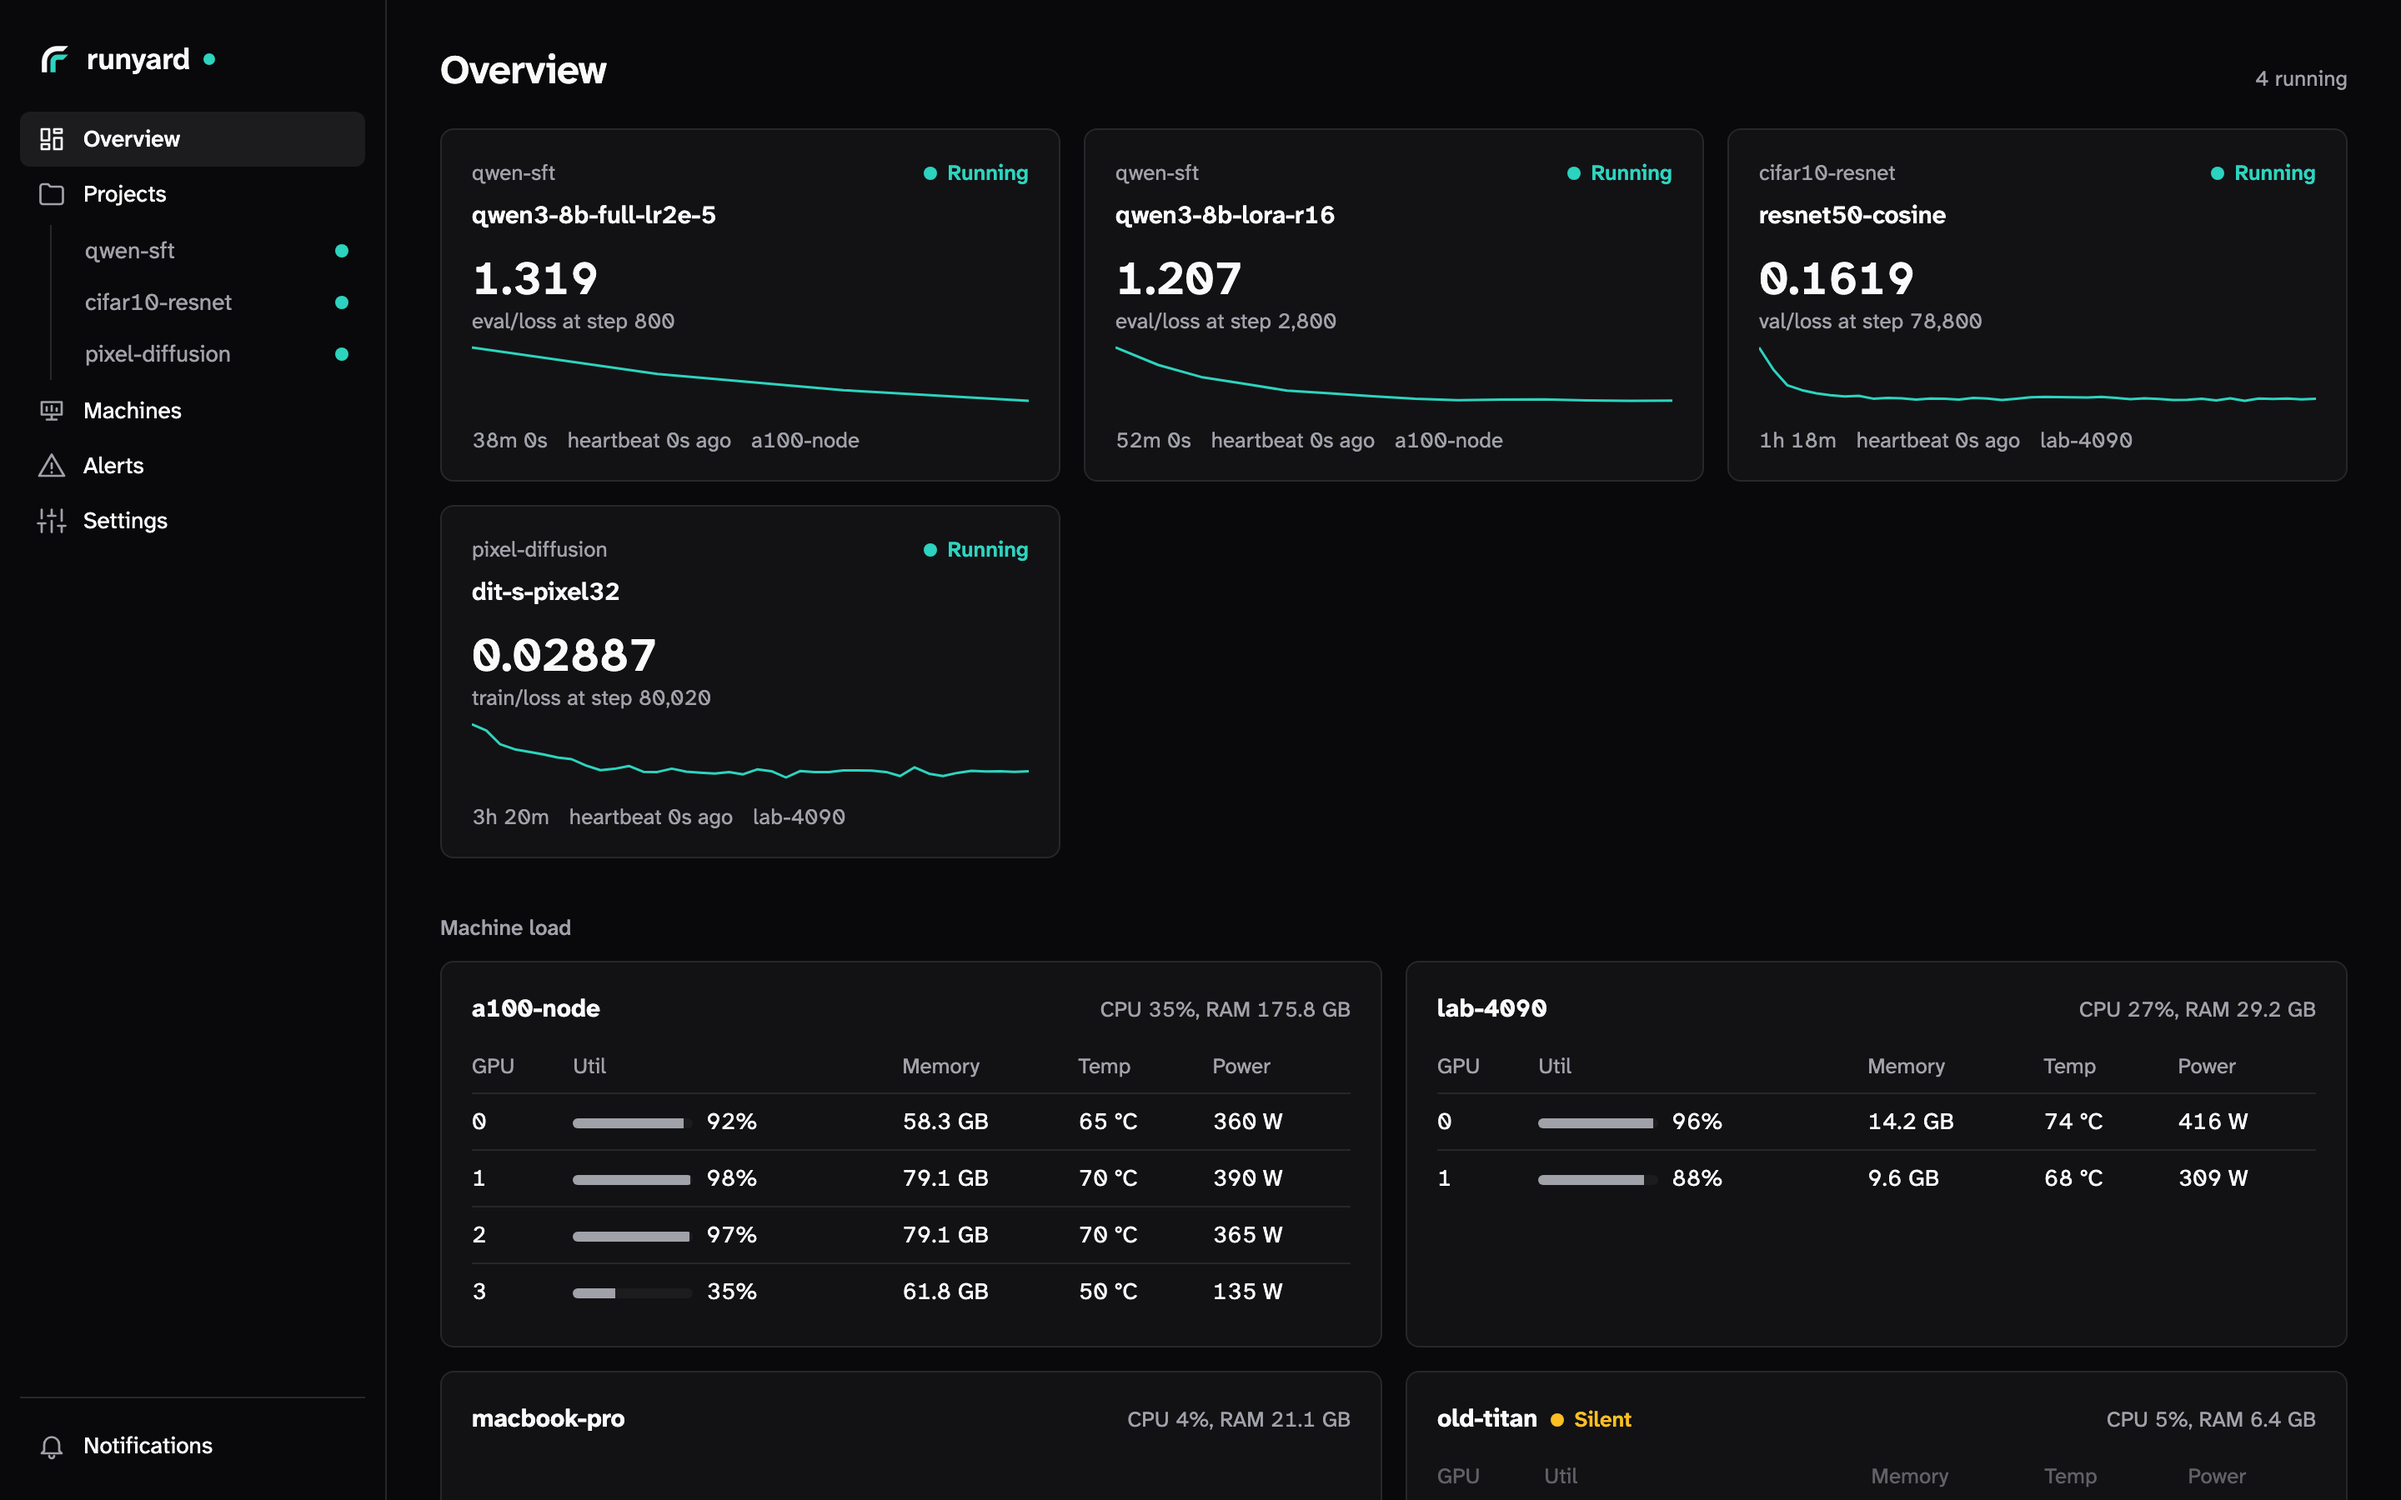
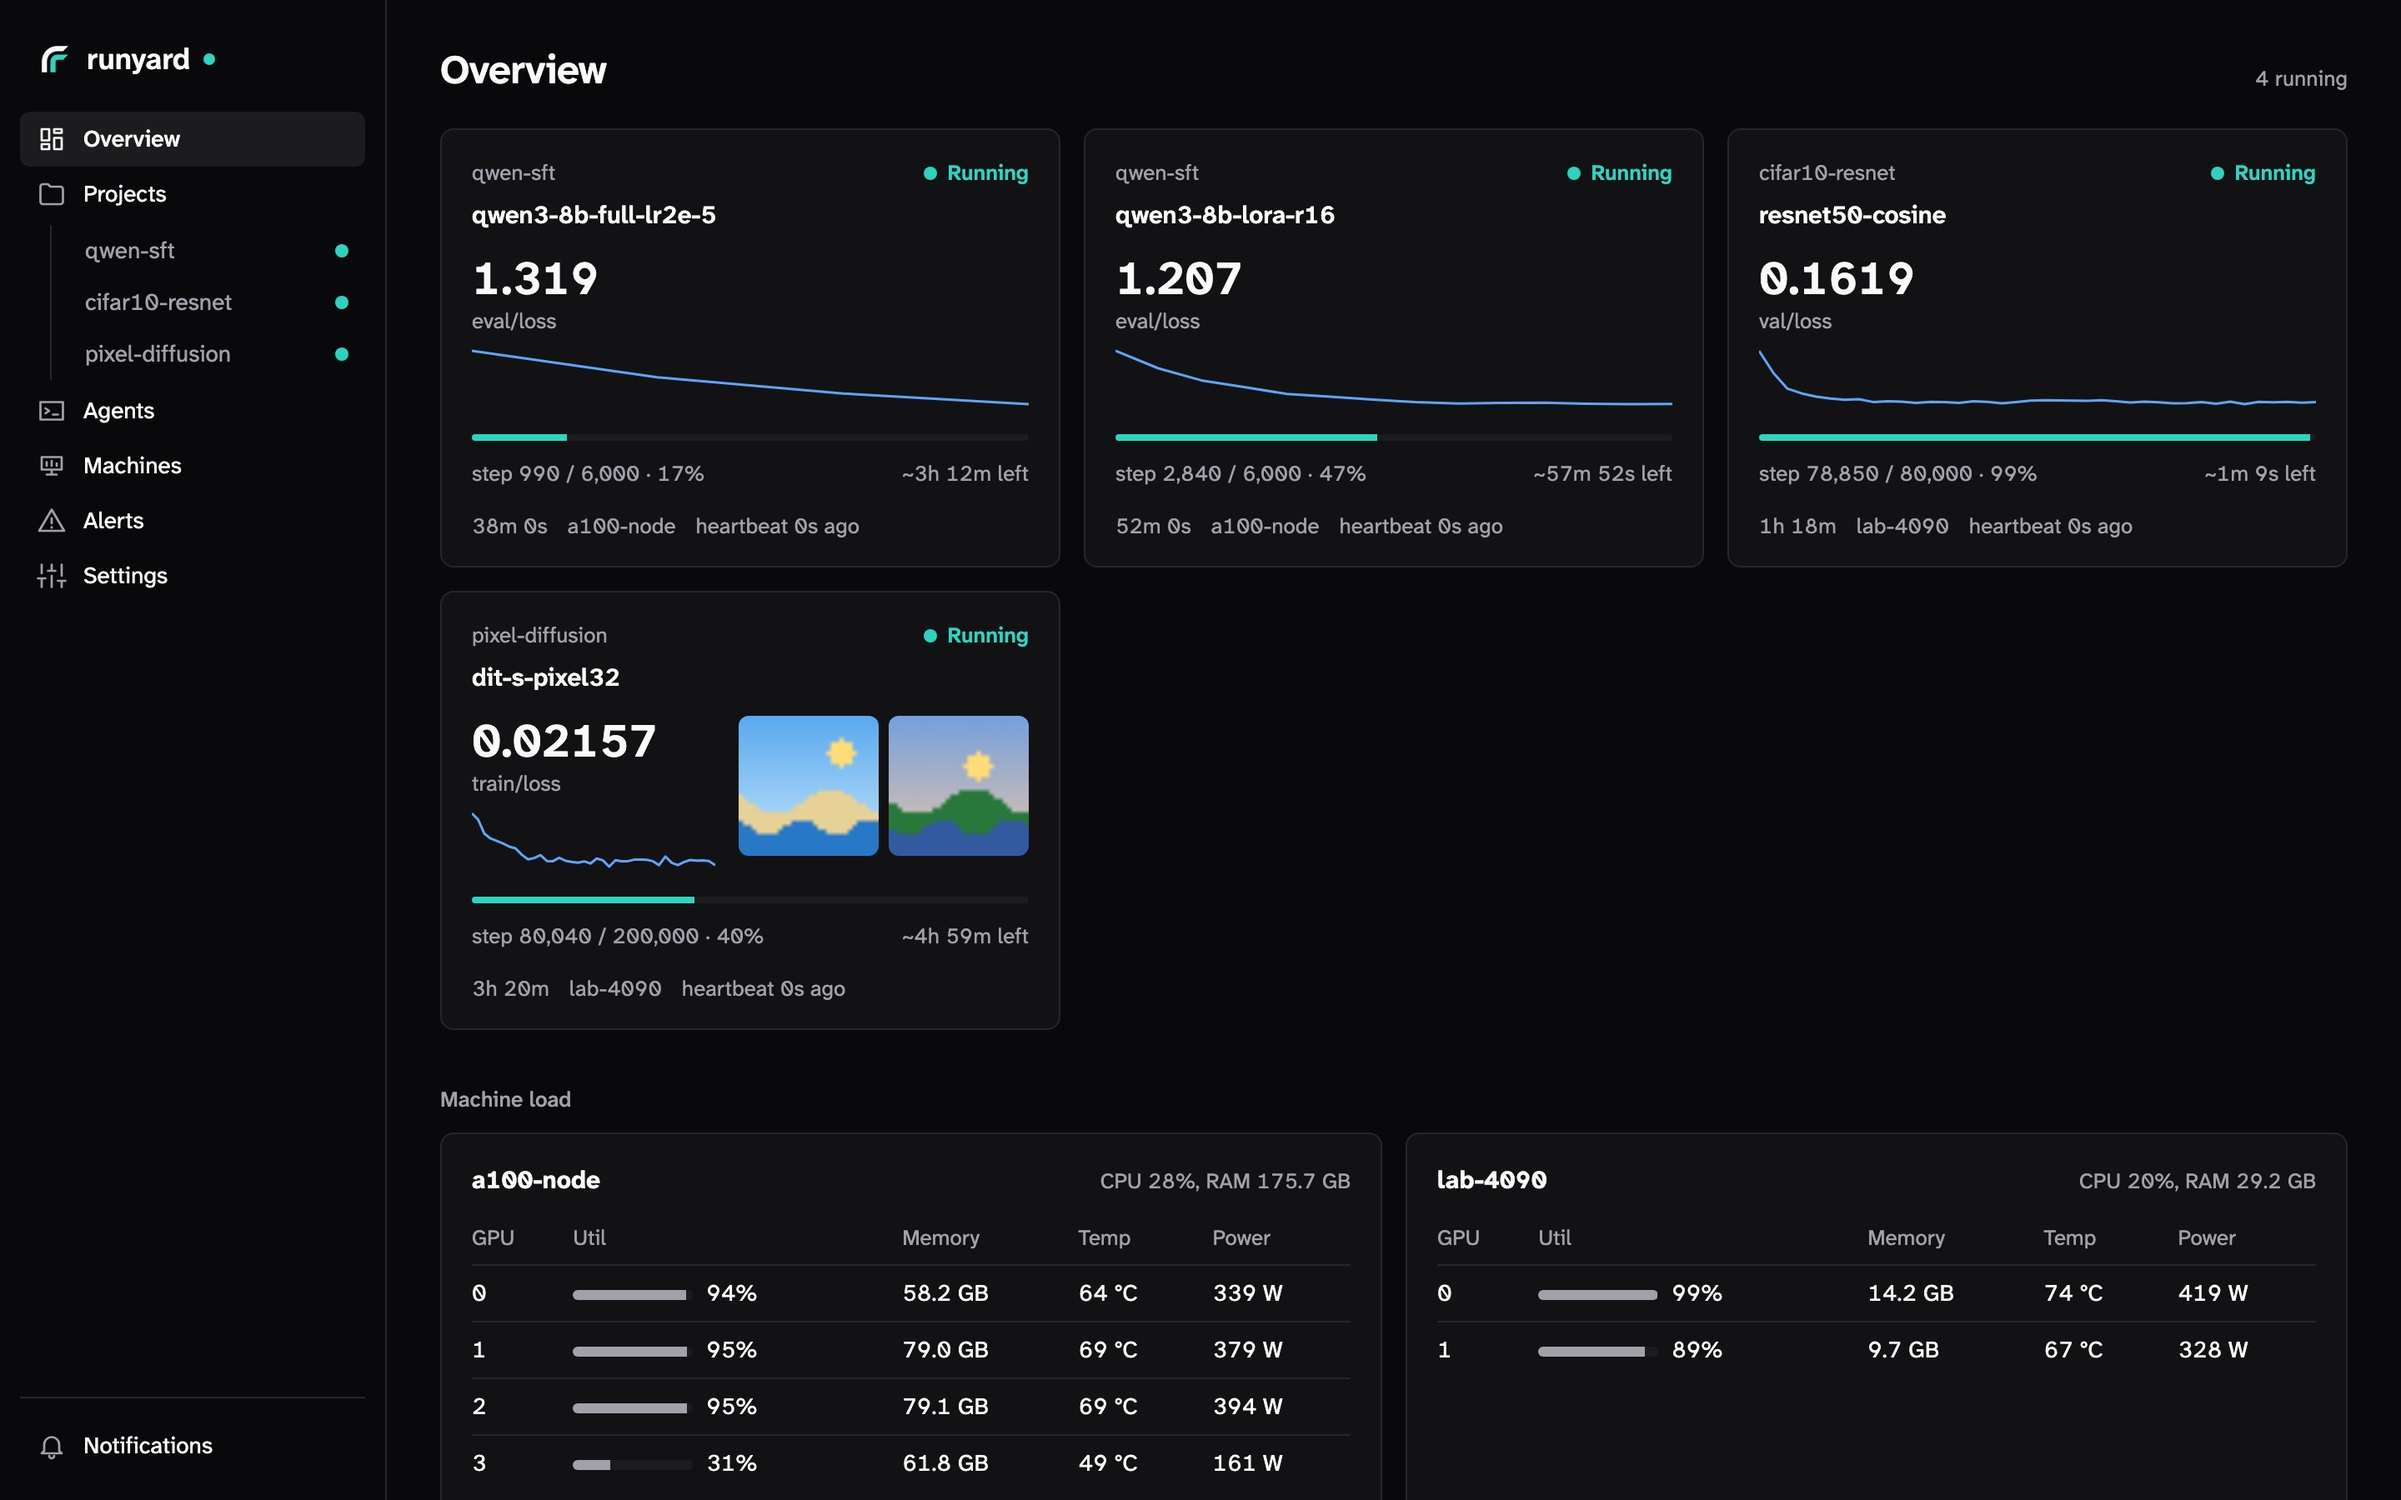
Demo: no false "server was upgraded" notice and no broken samples; new overview screenshots
The upgrade check fetched / instead of the page itself, so the demo at /demo/ always looked stale, and ?w= was
appended to the demo's data URLs. The demo's runs now name a total, so their cards show progress. The README's
and the site's overview pictures are retaken from the demo in both themes.

Claude-Session: https://claude.ai/code/session_01PjqH8rpWwyp8gqB7GXp2Ge

diff --git a/web/src/lib.svelte.js b/web/src/lib.svelte.js
@@ -101,7 +101,8 @@ export function seriesLine(s, run, time) {
 }
 
 // thumb is a sample's URL at a width fit for a grid; the server keeps 320, 640 and 1280. A GIF stays itself: it moves.
-export const thumb = (url, w = 640) => (url.endsWith('.gif') ? url : `${url}?w=${w}`)
+// Only the server's own /media/ files have smaller copies: the demo's pictures are data URLs.
+export const thumb = (url, w = 640) => (!url.startsWith('/media/') || url.endsWith('.gif') ? url : `${url}?w=${w}`)
 
 // memo keeps what a page was showing (a list's filter and search, a run's tab) for when you come Back to it.
 export const memo = {}
@@ -111,7 +112,7 @@ export async function checkStale() {
   const mine = document.querySelector('script[type=module][src]')?.getAttribute('src')
   if (!mine || !mine.includes('/assets/')) return // the dev server
   try {
-    const page = await (await fetch('/', { cache: 'no-store' })).text()
+    const page = await (await fetch(location.pathname, { cache: 'no-store' })).text() // this page, wherever it is served from
     live.stale = !page.includes(mine)
   } catch {}
 }

diff --git a/web/demo/mock.js b/web/demo/mock.js
@@ -85,7 +85,7 @@ function addRun(o) {
     project: o.project,
     name: o.name,
     status: 'running',
-    config: o.config,
+    config: o.endStep ? { max_steps: o.endStep, ...o.config } : o.config, // a total, so cards and lists show progress
     summary: {},
     tags: o.tags || [],
     notes: o.notes || '',
